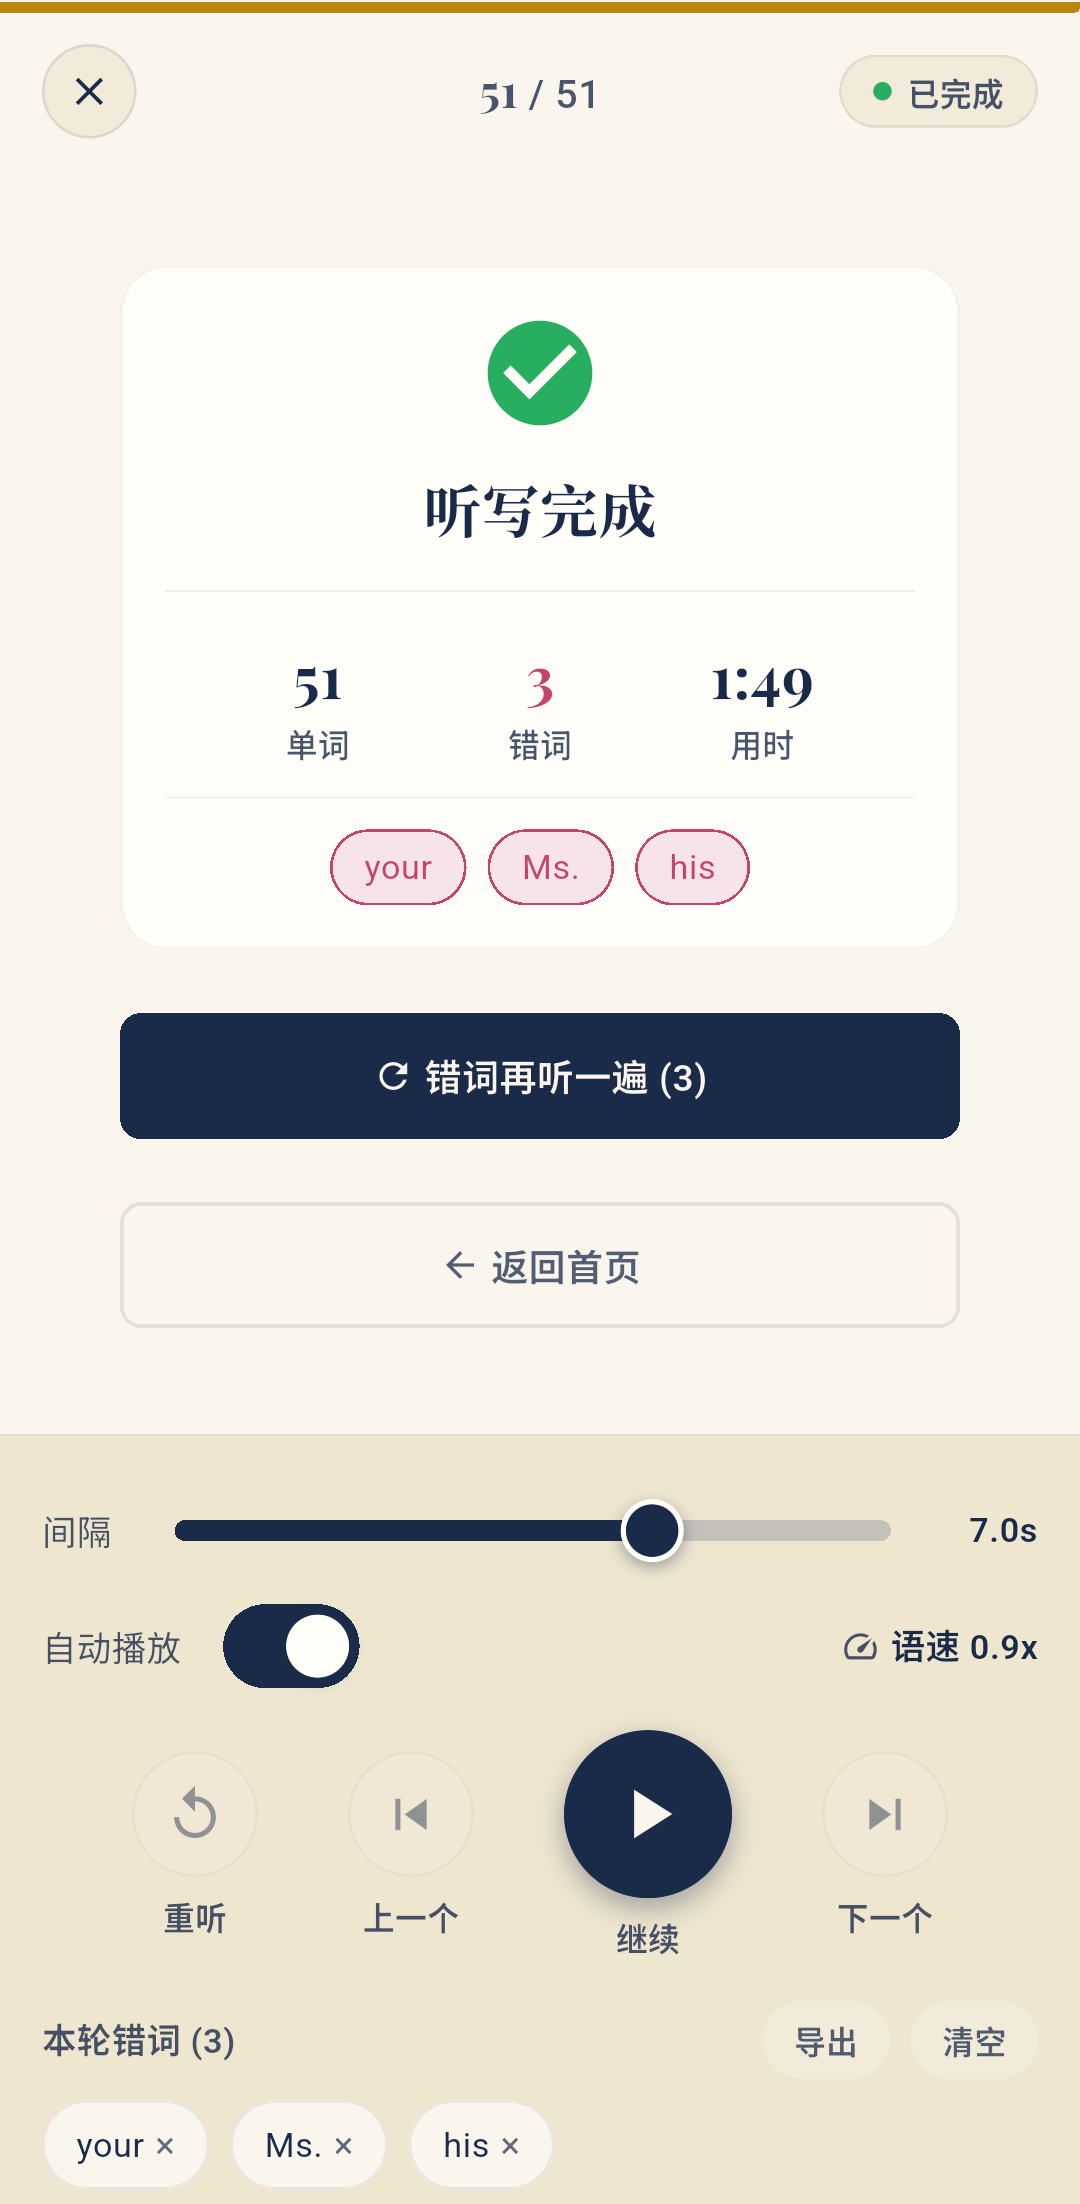
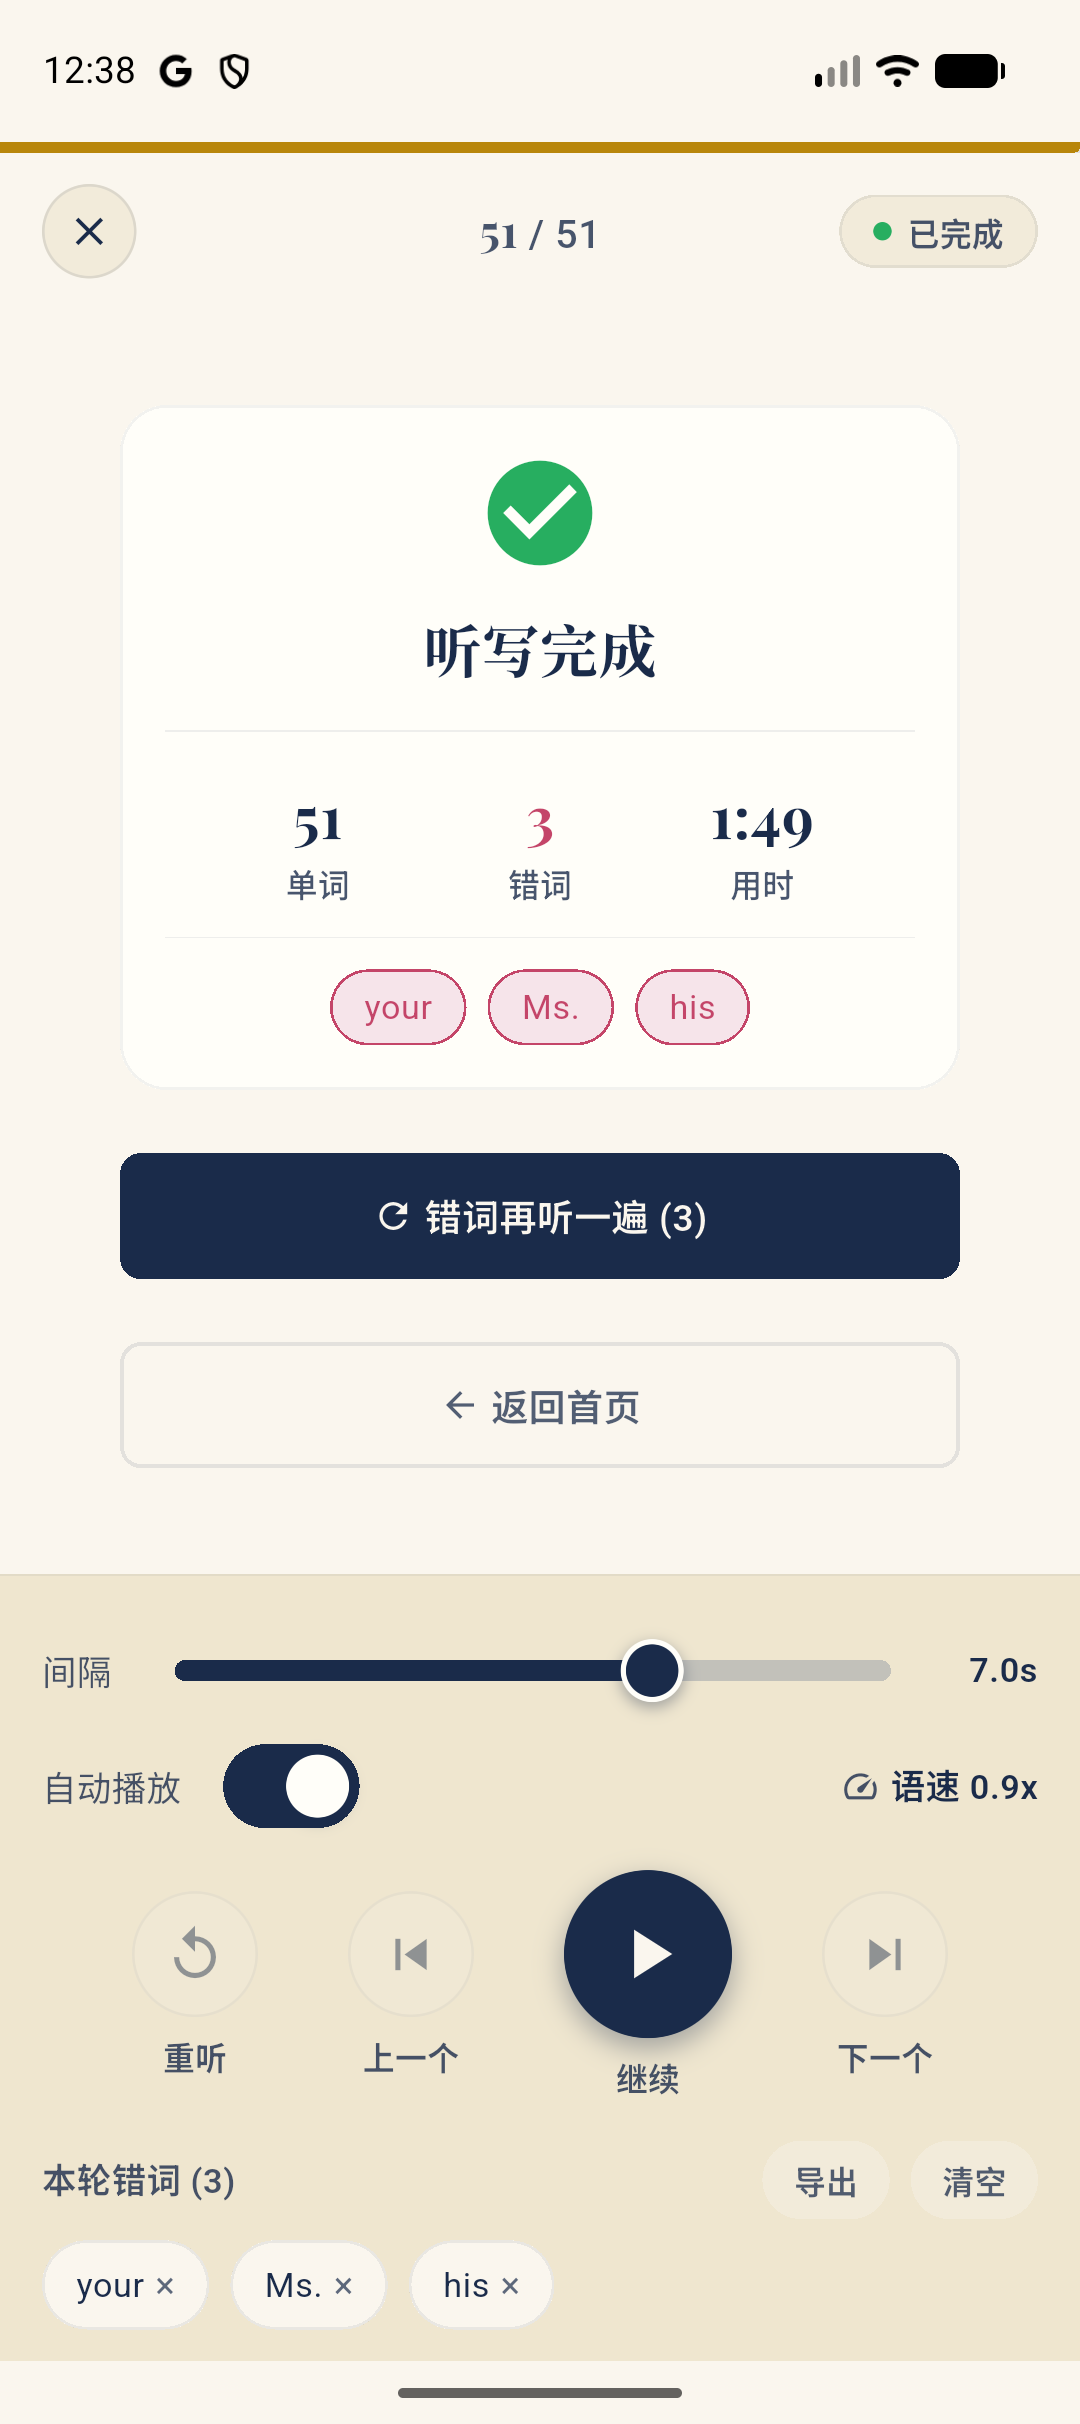
chore(screenshots): update screenshot images and adjust PhoneMockup component styling
Replaced existing screenshot images with updated versions and modified the PhoneMockup component to enhance the visual presentation. Adjustments include border styling and height for better alignment with the new screenshots.

diff --git a/website/src/components/PhoneMockup.tsx b/website/src/components/PhoneMockup.tsx
@@ -22,7 +22,8 @@ const SHOTS: Record<AppShot, { src: string; alt: string }> = {
 };
 
 /**
- * 手机外框。截图已裁掉系统状态栏与手势条，由此外框提供刘海与边框。
+ * 手机外框。一圈等宽 border，四边同一粗细。
+ * 截图自带状态栏与手势条，不再另叠刘海。
  */
 export function PhoneFrame({
   children,
@@ -33,11 +34,8 @@ export function PhoneFrame({
 }) {
   return (
     <div className={`relative ${className}`}>
-      <div className="relative w-70 overflow-hidden rounded-[2.8rem] border-[3px] border-ink/80 bg-ink p-2 shadow-[0_30px_60px_-20px_rgba(26,43,74,0.4),0_0_0_1px_rgba(26,43,74,0.1)]">
-        <div className="relative overflow-hidden rounded-[2.2rem] bg-paper">
-          <div className="absolute left-1/2 top-0 z-10 h-6 w-28 -translate-x-1/2 rounded-b-2xl bg-ink" />
-          {children}
-        </div>
+      <div className="w-70 overflow-hidden rounded-[1.75rem] border-[10px] border-ink bg-paper shadow-[0_30px_60px_-20px_rgba(26,43,74,0.4)]">
+        {children}
       </div>
     </div>
   );
@@ -59,7 +57,7 @@ export function PhoneScreenshot({
         src={src}
         alt={alt}
         width={1080}
-        height={2204}
+        height={2424}
         className="block h-auto w-full"
         decoding="async"
         loading={priority ? "eager" : "lazy"}
